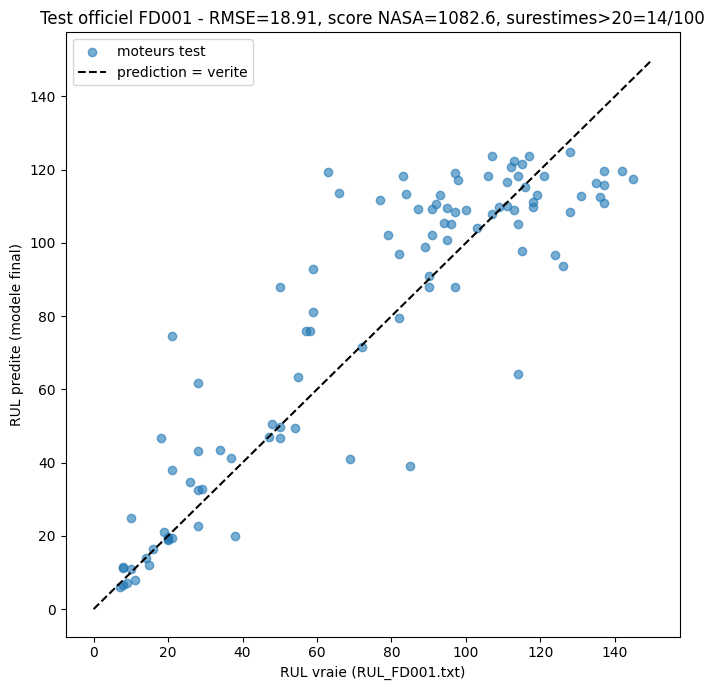
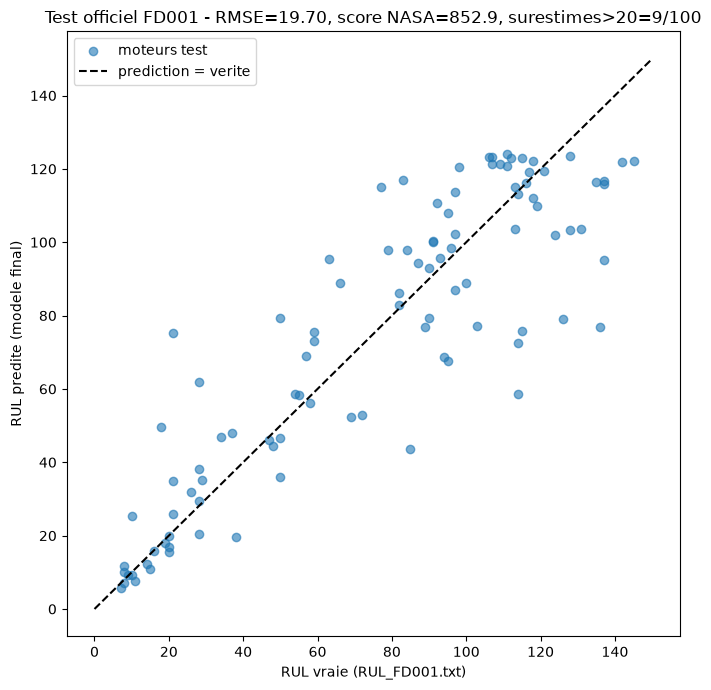
Ajouter time_cycles aux features, justifie par un test d'ablation
Un test d'ablation (nouvelle section 11 du notebook, validation croisee
uniquement, jeu de test non utilise) compare 7 jeux de features : les
colonnes glissantes (moyennes, ecarts-types) n'ameliorent pas le RMSE de
facon mesurable, alors que time_cycles fait passer le RMSE moyen de 18.64
a 16.86 et le score NASA moyen de 62 279 a 29 729. 15 capteurs + time_cycles
fait aussi bien (16.95) : simplification possible en Phase 4.

Nouveaux resultats sur le test officiel (46 features) : RMSE 19.70, score
NASA 852.9, 9/100 surestimes de plus de 20 cycles (contre 18.91 / 1082.6 /
14/100 a 45 features, commit a97a82d) - resultat mixte, non concluant avec
100 points. docs/03_modelisation.md reecrit, figure regeneree, deux
comprehensions de liste remplacees par des boucles explicites.

diff --git a/docs/03_modelisation.md b/docs/03_modelisation.md
@@ -12,12 +12,17 @@ Notebook complet : [`notebooks/03_modelisation.ipynb`](../notebooks/03_modelisat
 
 ## Méthode et résultats
 
-### 1. Features par fenêtre glissante
+### 1. Features : fenêtre glissante et numéro de cycle
 
 Pour chaque capteur, deux colonnes sont ajoutées : la moyenne et l'écart-type calculés sur les 5 derniers
 cycles (moteur par moteur, causal). Elles capturent la tendance et la dispersion récentes du signal —
-en particulier la hausse de dispersion en fin de vie déjà démontrée en Phase 2. 45 features au total
+en particulier la hausse de dispersion en fin de vie déjà démontrée en Phase 2. Cela donne 45 features
 (15 capteurs lissés + 15 moyennes glissantes + 15 écarts-types glissants).
+
+À ces 45 colonnes s'ajoute `time_cycles` (le numéro du cycle en cours), soit **46 features** au total —
+ajouté après le test d'ablation de la section 5. `unit_number` reste exclu : c'est une étiquette de moteur,
+pas une mesure, et les moteurs du test sont d'autres moteurs que ceux du train. `time_cycles` n'est pas
+normalisé (XGBoost est insensible à l'échelle ; il faudra le normaliser pour un LSTM ou un CNN 1D).
 
 Au tout premier cycle de chaque moteur, l'écart-type glissant n'existe pas mathématiquement (une seule
 valeur disponible) : les 1500 `NaN` résultants (100 moteurs × 15 capteurs) sont remplacés par 0.
@@ -37,27 +42,29 @@ chaque pli (intersection vide entre les deux ensembles de moteurs).
 
 `GroupKFold(n_splits=5, shuffle=True, random_state=42)` : par défaut, `GroupKFold` répartit les moteurs
 entre les plis selon leur ordre d'apparition dans le fichier, pas au hasard — un choix qui pourrait
-biaiser chaque pli si cet ordre correspondait à autre chose qu'un simple ordre de simulation. Vérifié :
-avec `shuffle=True`, le RMSE moyen ne change presque pas (18.61 sans mélange vs 18.64 avec) — donc pas de
-biais caché ici — mais le mélange (avec une graine fixe pour rester reproductible) est conservé pour ne
-plus jamais avoir à supposer que l'ordre du fichier n'a pas d'importance.
+biaiser chaque pli si cet ordre correspondait à autre chose qu'un simple ordre de simulation. Vérifié
+(à l'époque avec 45 features) : avec `shuffle=True`, le RMSE moyen ne change presque pas (18.61 sans
+mélange vs 18.64 avec) — donc pas de biais caché ici — mais le mélange (avec une graine fixe pour rester
+reproductible) est conservé pour ne plus jamais avoir à supposer que l'ordre du fichier n'a pas
+d'importance.
+
+Résultats avec les 46 features :
 
 | Pli | RMSE | Score NASA |
 |---|---|---|
-| 1 | 16.58 | 34 222.3 |
-| 2 | 20.22 | 32 603.8 |
-| 3 | 18.09 | 74 407.3 |
-| 4 | 18.34 | 64 938.7 |
-| 5 | 19.97 | 105 223.5 |
-| **Moyenne** | **18.64** | **62 279.1** |
+| 1 | 15.17 | 19 024.1 |
+| 2 | 18.79 | 24 855.2 |
+| 3 | 17.29 | 40 402.5 |
+| 4 | 15.90 | 30 488.2 |
+| 5 | 17.13 | 33 876.7 |
+| **Moyenne** | **16.86** | **29 729.3** |
 
 **Note de reproductibilité** : ces chiffres de validation croisée peuvent varier légèrement d'une
-exécution à l'autre (observé : 18.17 puis 18.61 sur deux runs successifs, avant l'ajout du `shuffle`
-ci-dessus), malgré `random_state=42` fixé sur `XGBRegressor`. XGBoost parallélise la construction des
+exécution à l'autre (observé avec 45 features : 18.17 puis 18.61 sur deux runs successifs, avant l'ajout
+du `shuffle`), malgré `random_state=42` fixé sur `XGBRegressor`. XGBoost parallélise la construction des
 arbres sur plusieurs cœurs, et l'ordre des opérations flottantes en parallèle n'est pas garanti identique
-d'un environnement à l'autre — un phénomène connu, pas un bug du code. Le modèle final et son évaluation
-sur le test officiel (section 4 ci-dessous), en revanche, sont restés strictement identiques sur les
-trois runs.
+d'un environnement à l'autre — un phénomène connu, pas un bug du code. Avec 45 features, le modèle final et
+son évaluation sur le test officiel sont restés strictement identiques sur trois runs.
 
 ### 4. Évaluation sur le jeu de test officiel
 
@@ -66,25 +73,71 @@ Un modèle final (mêmes hyperparamètres) est entraîné sur les 100 moteurs d'
 séparément pour le dernier cycle de chaque moteur test). Le même `scaler` que le train est appliqué en
 `transform` seul (jamais réajusté sur le test), pour éviter toute fuite d'information.
 
-- **RMSE test = 18.91**
-- **Score NASA test = 1 082.6**
-- **Moteurs surestimés de plus de 20 cycles : 14/100**
+Résultats du modèle à 46 features (celui du notebook actuel) :
+
+- **RMSE test = 19.70**
+- **Score NASA test = 852.9**
+- **Moteurs surestimés de plus de 20 cycles : 9/100**
+
+Pour mémoire, le même modèle à 45 features (sans `time_cycles`), tel qu'exécuté par le notebook au commit
+`a97a82d`, donnait : RMSE 18.91, score NASA 1 082.6, 14/100 surestimés.
+
+| Test officiel | 45 features (`a97a82d`) | 46 features (actuel) |
+|---|---|---|
+| RMSE | 18.91 | 19.70 |
+| Score NASA | 1 082.6 | 852.9 |
+| Surestimés de plus de 20 cycles | 14/100 | 9/100 |
+
+Le résultat est **mixte** : le RMSE du test est un peu moins bon, le score NASA et le nombre de
+surestimations s'améliorent. Le test ne compte que 100 points (un par moteur, à son dernier cycle
+observé) et le score NASA, exponentiel, est dominé par quelques grosses surestimations : ces écarts ne
+sont pas concluants dans un sens ni dans l'autre. Le choix de `time_cycles` a été fait sur la validation
+croisée (section 5), avant de regarder le test, et n'a pas été révisé après.
 
 ![Prédictions vs RUL vraie, jeu de test officiel](figures/03_predictions_vs_vraies_rul_test.png)
 
-Le nuage de points suit globalement la diagonale idéale, avec un plafond visible autour de 125 : le
+Le nuage de points suit globalement la diagonale idéale, avec un plafond visible autour de 120-125 : le
 modèle ne peut pas prédire au-delà, puisqu'il a été entraîné sur une cible plafonnée à 125 (Phase 2).
+
+### 5. Choix des features : test d'ablation
+
+Sept jeux de features comparés avec la même validation croisée (mêmes plis, mêmes réglages XGBoost),
+sans jamais utiliser le jeu de test (section 11 du notebook) :
+
+| Features | RMSE moyen | Écart-type entre plis | Score NASA moyen |
+|---|---|---|---|
+| 15 : capteurs seuls | 18.64 | 1.35 | 66 226.5 |
+| 30 : capteurs + moyennes | 18.73 | 1.43 | 65 708.3 |
+| 30 : capteurs + écarts-types | 18.54 | 1.28 | 63 330.3 |
+| 45 : capteurs + moyennes + écarts-types | 18.64 | 1.33 | 62 279.1 |
+| 16 : capteurs + `time_cycles` | 16.95 | 1.20 | 30 265.0 |
+| 31 : capteurs + écarts-types + `time_cycles` | 16.78 | 1.17 | 28 436.4 |
+| **46 : les 45 + `time_cycles` (retenu)** | **16.86** | 1.25 | **29 729.3** |
+
+- Les colonnes glissantes (moyennes, écarts-types) n'améliorent pas le RMSE de façon mesurable : les
+  écarts entre 15, 30 et 45 features (0.2 au plus) sont bien plus petits que le bruit d'un pli à l'autre
+  (environ 1.3). Une raison plausible : le capteur lissé de la Phase 1 est déjà une moyenne mobile sur
+  5 cycles (corrélation médiane de 0.987 avec sa « moyenne glissante », mesurée hors notebook).
+- `time_cycles` améliore nettement le RMSE (−1.8) et divise le score NASA par deux.
+- « 15 capteurs + `time_cycles` » (16 features) fait aussi bien que les 46 : tout le gain vient de
+  `time_cycles`. Les 46 ont été conservés parce qu'ils étaient déjà en place et que le sujet demande des
+  statistiques glissantes pour la baseline classique ; passer à 16 features est une simplification possible
+  en Phase 4.
 
 ## Trade-offs et limites
 
 - Un seul jeu d'hyperparamètres XGBoost a été testé (`n_estimators=200, max_depth=5, learning_rate=0.05`),
   choisi raisonnablement mais sans recherche systématique — une optimisation (grid/random search) pourrait
   améliorer ces chiffres, à envisager en Phase 4 si le temps le permet.
-- Ces résultats sont proches de ceux de l'ancien notebook supprimé (RMSE 18.97, score NASA 1053.9,
-  cf. [ADR-0002](decisions/0002-archivage-baseline-fd001.md)) : cohérent, la recette est similaire
-  (XGBoost, features glissantes, RUL plafonnée, validation par moteur), mais ce sont des chiffres
-  différents, obtenus indépendamment avec le code actuel de ce repo — pas une reconstruction de l'ancien.
 - Seul XGBoost a été testé (le cahier des charges section 5 en liste trois : XGBoost, LightGBM, SVR) ;
   une comparaison entre les trois n'a pas été faite à ce stade.
-- Le comptage "surestimés de plus de 20 cycles" (14/100) utilise un seuil de 20 choisi arbitrairement
-  pour l'interprétation, pas une valeur du cahier des charges.
+- La validation croisée évalue tous les cycles des moteurs mis de côté, alors que le test officiel
+  n'évalue qu'un point par moteur (son dernier cycle). Le gain de `time_cycles` en validation croisée ne
+  s'est pas transféré à l'identique au test (RMSE légèrement moins bon, score NASA et surestimations
+  meilleurs) : un protocole de validation qui imite la troncature du test serait plus fidèle.
+- Le test ne compte que 100 points et aucun test statistique n'a été fait sur l'écart entre les deux
+  versions (45 et 46 features) : à faire en Phase 4 (test t apparié, cf. cahier des charges).
+- Un seul run par jeu de features dans l'ablation ; XGBoost peut varier légèrement d'un environnement à
+  l'autre (voir la note de reproductibilité).
+- Le comptage "surestimés de plus de 20 cycles" utilise un seuil de 20 choisi arbitrairement pour
+  l'interprétation, pas une valeur du cahier des charges.

diff --git a/docs/STATUS.md b/docs/STATUS.md
@@ -11,7 +11,13 @@ Mis à jour après chaque changement significatif. Sert de point d'entrée pour 
 ## Dernière modification
 
 - **Qui** : Matisse (avec Claude Code)
-- **Date** : 2026-09-28
+- **Date** : 2026-09-30
+- **Quoi** : ajout de `time_cycles` (numéro du cycle en cours) aux features de `notebooks/03_modelisation.ipynb` : 46 features au lieu de 45. Décision prise sur un test d'ablation (nouvelle section 11 du notebook, validation croisée uniquement, jeu de test non utilisé) comparant 7 jeux de features : les colonnes glissantes (moyennes, écarts-types) n'améliorent pas le RMSE de façon mesurable (18.54 à 18.73 pour 15, 30 et 45 features, contre un bruit d'environ 1.3 entre plis), alors que `time_cycles` fait passer le RMSE moyen de 18.64 à 16.86 et le score NASA moyen de 62 279 à 29 729. « 15 capteurs + `time_cycles` » (16 features) fait aussi bien (16.95) — simplification possible en Phase 4. Nouveaux résultats sur le test officiel : **RMSE 19.70, score NASA 852.9, 9/100 moteurs surestimés de plus de 20 cycles** (contre 18.91 / 1082.6 / 14/100 à 45 features, commit `a97a82d`) — résultat mixte, non concluant avec 100 points. `docs/03_modelisation.md` réécrit en conséquence, figure de validation regénérée ; deux compréhensions de liste du notebook remplacées par des boucles explicites (règle du projet).
+- **Pourquoi** : question soulevée par Matisse pendant la revue du code (« pourquoi 45 colonnes ? ») — vérifiée par un test plutôt que supposée. L'hypothèse initiale (« l'âge du moteur dit peu de chose sur la RUL ») s'est révélée fausse en validation croisée.
+- **Impact** : les chiffres de la Soutenance 1 doivent être mis à jour (slides 1, 4, 5 et 10 : RMSE 19,70 ; score NASA 852,9 ; 9/100 surestimés ; RMSE moyen de validation croisée 16,86 ; 46 features). Les chiffres des Phases 1 et 2 sont inchangés.
+
+### 2026-09-28 — Ajout de shuffle=True à GroupKFold
+- **Qui** : Matisse (avec Claude Code)
 - **Quoi** : ajout de `shuffle=True, random_state=42` à `GroupKFold` dans `notebooks/03_modelisation.ipynb` — par défaut, `GroupKFold` répartit les moteurs entre les plis selon leur ordre d'apparition dans le fichier, pas au hasard, ce qui aurait pu biaiser la validation croisée si cet ordre correspondait à autre chose qu'un simple ordre de simulation (jamais vérifié jusqu'ici). Testé : avec le mélange, le RMSE moyen passe de 18.61 à 18.64 — écart négligeable, donc pas de biais cachés détecté, mais le mélange (graine fixe) est conservé pour ne plus avoir à le supposer. `docs/03_modelisation.md` mis à jour avec les nouveaux chiffres de plis (16.58/20.22/18.09/18.34/19.97, moyenne 18.64).
 - **Pourquoi** : question soulevée par Matisse en apprenant le fonctionnement de `GroupKFold` (répartition déterministe par défaut, pas aléatoire) — vérifiée plutôt que supposée sans risque, conformément à la règle du projet.
 - **Impact** : slide 4 de la Soutenance 1 (qui cite "RMSE moyen 18,17", puis "18,61") doit être mise à jour avec **18,64**. Les chiffres du test officiel (18,91 / 1082,6 / 14 sur 100) restent inchangés.
